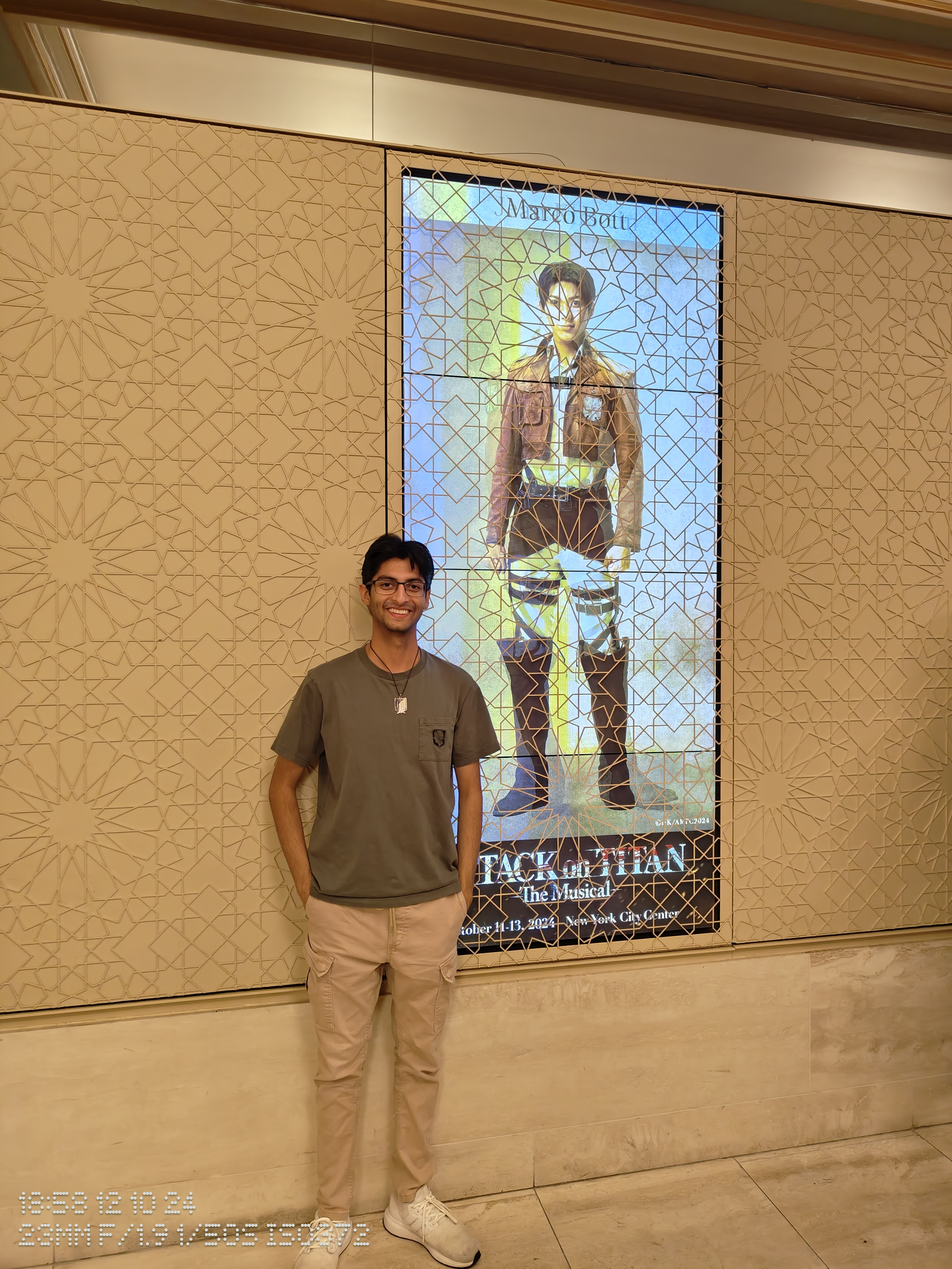
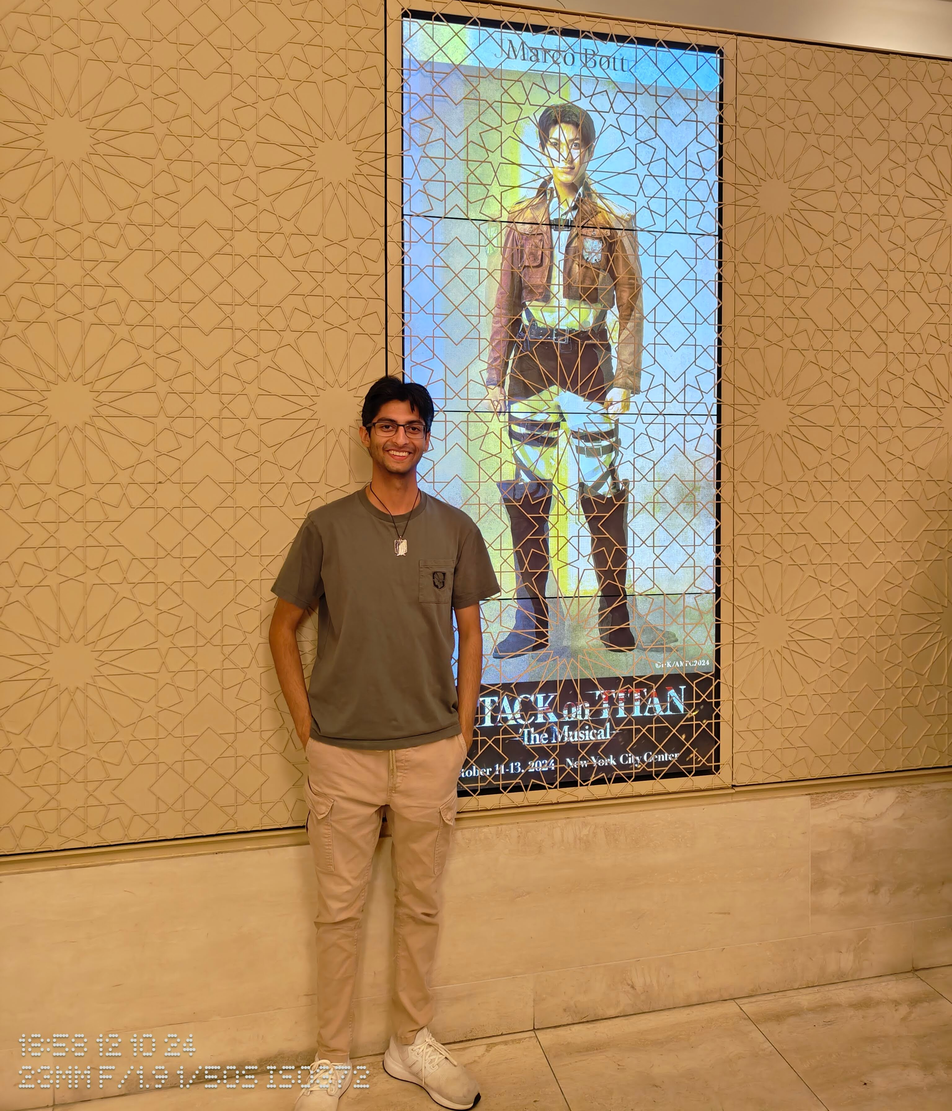
Fix timeline image dimensions, update aot musical photo

diff --git a/src/data/timeline.js b/src/data/timeline.js
@@ -112,15 +112,16 @@ export const timeline = [
   {
     year: "2026",
     events: [
+      // { month: "Apr", title: "Route 66 road trip", description: null, coords: [{ lat: 43.6532, lng: -79.3832 }, { lat: 41.8781, lng: -87.6298 }, { lat: 39.7817, lng: -89.6501 }, { lat: 38.6270, lng: -90.1994 }, { lat: 37.0842, lng: -94.5133 }, { lat: 36.1539, lng: -95.9928 }, { lat: 35.4676, lng: -97.5164 }, { lat: 35.2220, lng: -101.8313 }, { lat: 35.0844, lng: -106.6504 }, { lat: 35.1983, lng: -111.6513 }, { lat: 34.8958, lng: -117.0173 }, { lat: 34.0522, lng: -118.2437 }, { lat: 34.0195, lng: -118.8065 }, { lat: 34.4208, lng: -119.6982 }, { lat: 35.2828, lng: -120.6596 }, { lat: 36.2704, lng: -121.8084 }, { lat: 36.6002, lng: -121.8947 }, { lat: 37.7749, lng: -122.4194 }] },
       { month: "Mar", title: "New York visit", description: null, coords: { lat: 40.7128, lng: -74.0060 }, attachments: [img(nyc2026a, thumbNyc2026a, 1762, 1322), img(nyc2026b, thumbNyc2026b, 1386, 1848)] },
-      { month: "Feb", title: "Visited Orlando & Kennedy Space Center", description: null, coords: { lat: 28.5729, lng: -80.6490 }, attachments: [img(ksc1, thumbKsc1, 4096, 3072), img(orlando, thumbOrlando, 1600, 1200)] },
+      { month: "Feb", title: "Visited Orlando & Kennedy Space Center", description: null, coords: { lat: 28.5729, lng: -80.6490 }, attachments: [img(ksc1, thumbKsc1, 3072, 4096), img(orlando, thumbOrlando, 1600, 1200)] },
       // { month: "Jan", title: "Learned Piano Man on the harmonica", description: null, coords: null },
     ],
   },
   {
     year: "2025",
     events: [
-      { month: "Dec", title: "Road trip through the Florida Keys", description: null, coords: [{ lat: 25.7617, lng: -80.1918 }, { lat: 25.0865, lng: -80.4473 }, { lat: 24.9246, lng: -80.6476 }, { lat: 24.7064, lng: -81.0936 }, { lat: 24.5551, lng: -81.7800 }], attachments: [img(miamiKeys, thumbMiamiKeys, 5712, 4284), img(miami2Keys, thumbMiami2Keys, 5712, 4284)] },
+      { month: "Dec", title: "Road trip through the Florida Keys", description: null, coords: [{ lat: 25.7617, lng: -80.1918 }, { lat: 25.0865, lng: -80.4473 }, { lat: 24.9246, lng: -80.6476 }, { lat: 24.7064, lng: -81.0936 }, { lat: 24.5551, lng: -81.7800 }], attachments: [img(miamiKeys, thumbMiamiKeys, 5712, 4284), img(miami2Keys, thumbMiami2Keys, 4284, 5712)] },
       { month: "Sep", title: "Joined Quora", description: null, coords: null, attachments: [note("Joined the Ads Targeting team as a Machine Learning Engineering Intern", "pink")] },
       { month: "Sep", title: "Cottage trip in Quebec", description: null, coords: { lat: 46.4171, lng: -75.4782 }, attachments: [img(quebecCottage, thumbQuebecCottage, 5712, 4284)] },
       { month: "Aug", title: "Visited Singapore", description: null, coords: { lat: 1.3521, lng: 103.8198 }, attachments: [img(singapore1, thumbSingapore1, 4032, 3024), img(singapore2, thumbSingapore2, 5712, 4284)] },
@@ -128,7 +129,7 @@ export const timeline = [
       { month: "Jul", title: "Ran the SF 10k", description: null, coords: { lat: 37.7749, lng: -122.4194 }, attachments: [img(sfRace, thumbSfRace, 5712, 4284), img(sfRace2, thumbSfRace2, 478, 720)] },
       { month: "Jun", title: "Went camping in Yosemite", description: null, coords: { lat: 37.8651, lng: -119.5383 }, attachments: [img(yosemite1, thumbYosemite1, 4032, 3024), img(yosemite3, thumbYosemite3, 4032, 3024), img(yosemite4, thumbYosemite4, 5712, 4284), img(yosemite5, thumbYosemite5, 4032, 3024)] },
       { month: "Jun", title: "Went surfing for the first time", description: null, coords: { lat: 36.9741, lng: -122.0308 }, attachments: [img(surfing, thumbSurfing, 5712, 4284)] },
-      { month: "May", title: "Joined Glean", description: null, coords: { lat: 37.4419, lng: -122.1430 }, attachments: [img(glean1, thumbGlean1, 5712, 4284),  note("Built an [automated evals suite for Deep Research ↗](https://www.glean.com/blog/intern-life-at-glean#deep-research)", "yellow"), img(gleanTwinPeaks, thumbGleanTwinPeaks, 4032, 3024)], },
+      { month: "May", title: "Joined Glean", description: null, coords: { lat: 37.4419, lng: -122.1430 }, attachments: [img(glean1, thumbGlean1, 4284, 5712),  note("Built an [automated evals suite for Deep Research ↗](https://www.glean.com/blog/intern-life-at-glean#deep-research)", "yellow"), img(gleanTwinPeaks, thumbGleanTwinPeaks, 4032, 3024)], },
       // { month: "May", title: "Watched Attack on Titan Orchestral performance", description: null, coords: { lat: 43.6532, lng: -79.3832 } },
     ],
   },
@@ -136,7 +137,7 @@ export const timeline = [
     year: "2024",
     events: [
       { month: "Nov", title: "SF visit", description: null, coords: { lat: 37.7749, lng: -122.4194 }, attachments: [img(sfDatacurve1, thumbSfDatacurve1, 4032, 3024), img(sfDatacurve2, thumbSfDatacurve2, 4032, 3024), img(sfDatacurve3, thumbSfDatacurve3, 5712, 4284)] },
-      { month: "Oct", title: "Saw the Attack on Titan musical in New York", description: null, coords: { lat: 40.7128, lng: -74.0060 }, attachments: [img(aotMusical, thumbAotMusical, 3072, 4096)] },
+      { month: "Oct", title: "Saw the Attack on Titan musical in New York", description: null, coords: { lat: 40.7128, lng: -74.0060 }, attachments: [img(aotMusical, thumbAotMusical, 3072, 3585)] },
       { month: "Sep", title: "Joined Expertise.ai", description: null, coords: { lat: 43.6629, lng: -79.3957 }, attachments: [img(expertiseAi1, thumbExpertiseAi1, 3024, 4032), img(expertiseAi2, thumbExpertiseAi2, 3024, 4032)] },
       { month: "Aug", title: "Visited Vancouver & Seattle", description: null, coords: [{ lat: 49.2827, lng: -123.1207 }, { lat: 49.0027, lng: -122.7554 }, { lat: 48.7519, lng: -122.4787 }, { lat: 48.4229, lng: -122.3349 }, { lat: 47.9790, lng: -122.2021 }, { lat: 47.6062, lng: -122.3321 }], attachments: [img(seattle1, thumbSeattle1, 3024, 4032), img(seattle2, thumbSeattle2, 3024, 4032)] },
       // { month: "Jun", title: "Hindu Students Council shibhir in Pennsylvania", description: null, coords: { lat: 40.9699, lng: -77.7278 } },
